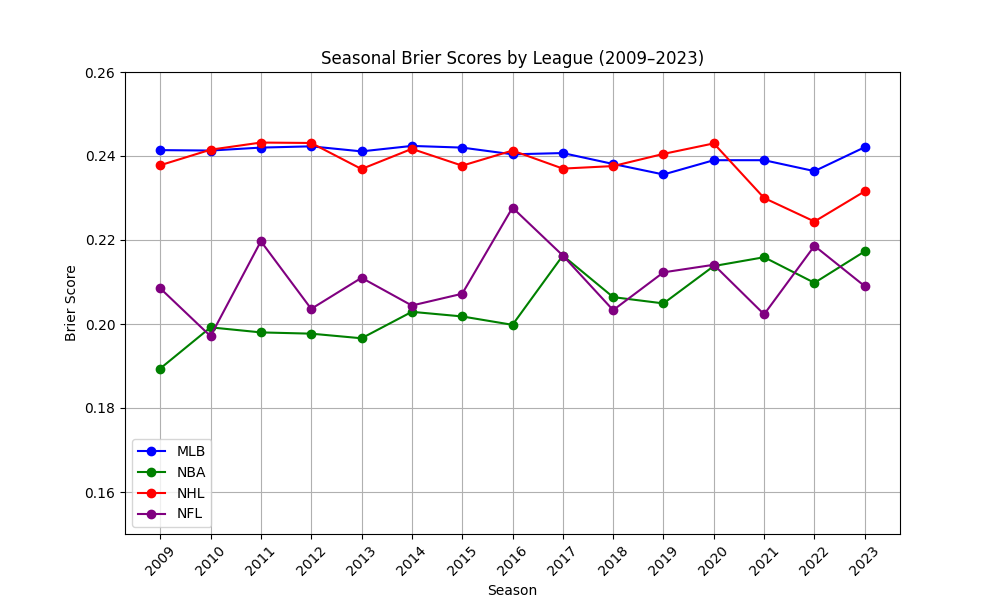
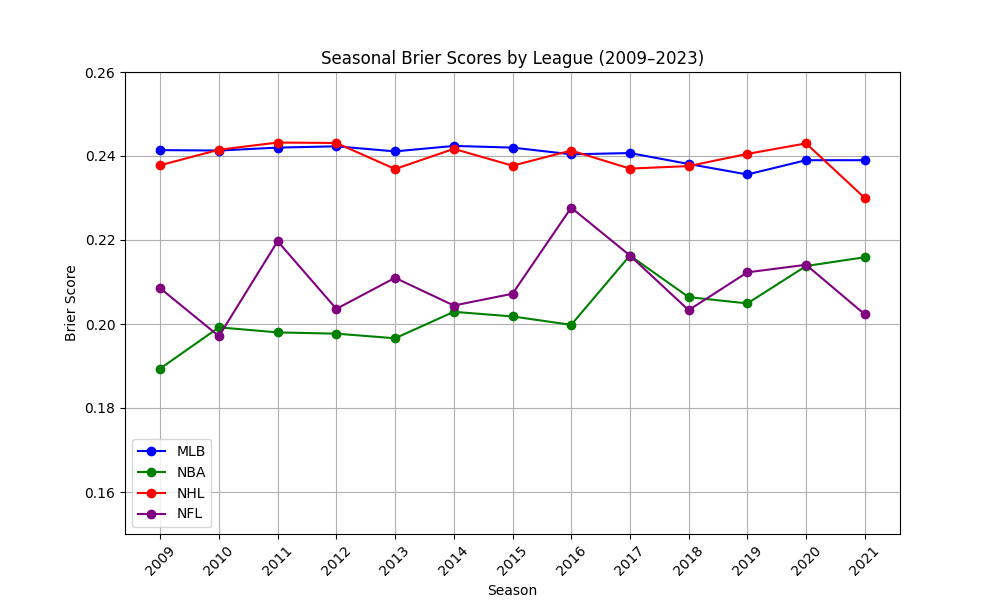
added brier score by model graph

diff --git a/src/analysis/nfl_brier_with_elo.py b/src/analysis/nfl_brier_with_elo.py
@@ -1,0 +1,35 @@
+import pandas as pd
+import numpy as np
+
+df = pd.read_csv("processed_data/nfl_espn_combined_with_elo.csv")
+
+df = df.dropna(subset=["result", "tournament", "avg_prob_1", "elo_prob_1"])
+
+df["result"] = df["result"].astype(int)
+df["avg_prob_1"] = df["avg_prob_1"].astype(float)
+df["elo_prob_1"] = df["elo_prob_1"].astype(float)
+
+baseline_prob = df["result"].mean()
+
+results = []
+
+grouped = df.groupby("tournament")
+for season, group in grouped:
+    avg_brier_score = np.mean((group["avg_prob_1"] - group["result"]) ** 2)
+    
+    elo_brier_score = np.mean((group["elo_prob_1"] - group["result"]) ** 2)
+
+    baseline_brier_score = np.mean((baseline_prob - group["result"]) ** 2)
+    
+    results.append({
+        "season": season,
+        "moneyline_brier_score": avg_brier_score,
+        "baseline_brier_score": baseline_brier_score,
+        "elo_brier_score": elo_brier_score,
+    })
+
+results_df = pd.DataFrame(results)
+
+results_df.to_csv("results/nfl_by_model.csv", index=False)
+
+

diff --git a/src/graphing/nfl_brier_elo_graphing.py b/src/graphing/nfl_brier_elo_graphing.py
@@ -1,0 +1,23 @@
+import pandas as pd
+import matplotlib.pyplot as plt
+
+results_df = pd.read_csv("results/temp.csv")
+
+results_df = results_df.sort_values(by="season")
+
+plt.figure(figsize=(10, 6))
+
+plt.plot(results_df["season"], results_df["moneyline_brier_score"], label="Betting Market", marker='o', color='blue')
+plt.plot(results_df["season"], results_df["baseline_brier_score"], label="Historical Home Win Probability Model", marker='o', color='green')
+plt.plot(results_df["season"], results_df["elo_brier_score"], label="Elo Model", marker='o', color='red')
+plt.plot(results_df["season"], [0.25]*len(results_df["season"]), label="Coinflip Model", marker='o',color='purple')
+
+plt.xticks(ticks=range(len(results_df["season"])), labels=results_df["season"], rotation=45)
+
+plt.xlabel("Season")
+plt.ylabel("Score")
+plt.title("Brier Scores of Different Models by Season")
+plt.legend()
+plt.grid(True)
+
+plt.savefig("figures/brier_score_by_model.png")

diff --git a/src/graphing/overall_seasonal.py b/src/graphing/overall_seasonal.py
@@ -14,7 +14,7 @@ for i, file_path in enumerate(file_paths):
     
     df['year'] = df['season'].str.extract(r'_(\d{4})').astype(int)
     
-    df = df[(df['year'] >= 2009) & (df['year'] <= 2023)]
+    df = df[(df['year'] >= 2009) & (df['year'] <= 2021)]
     
     all_years.update(df['year'])
     
